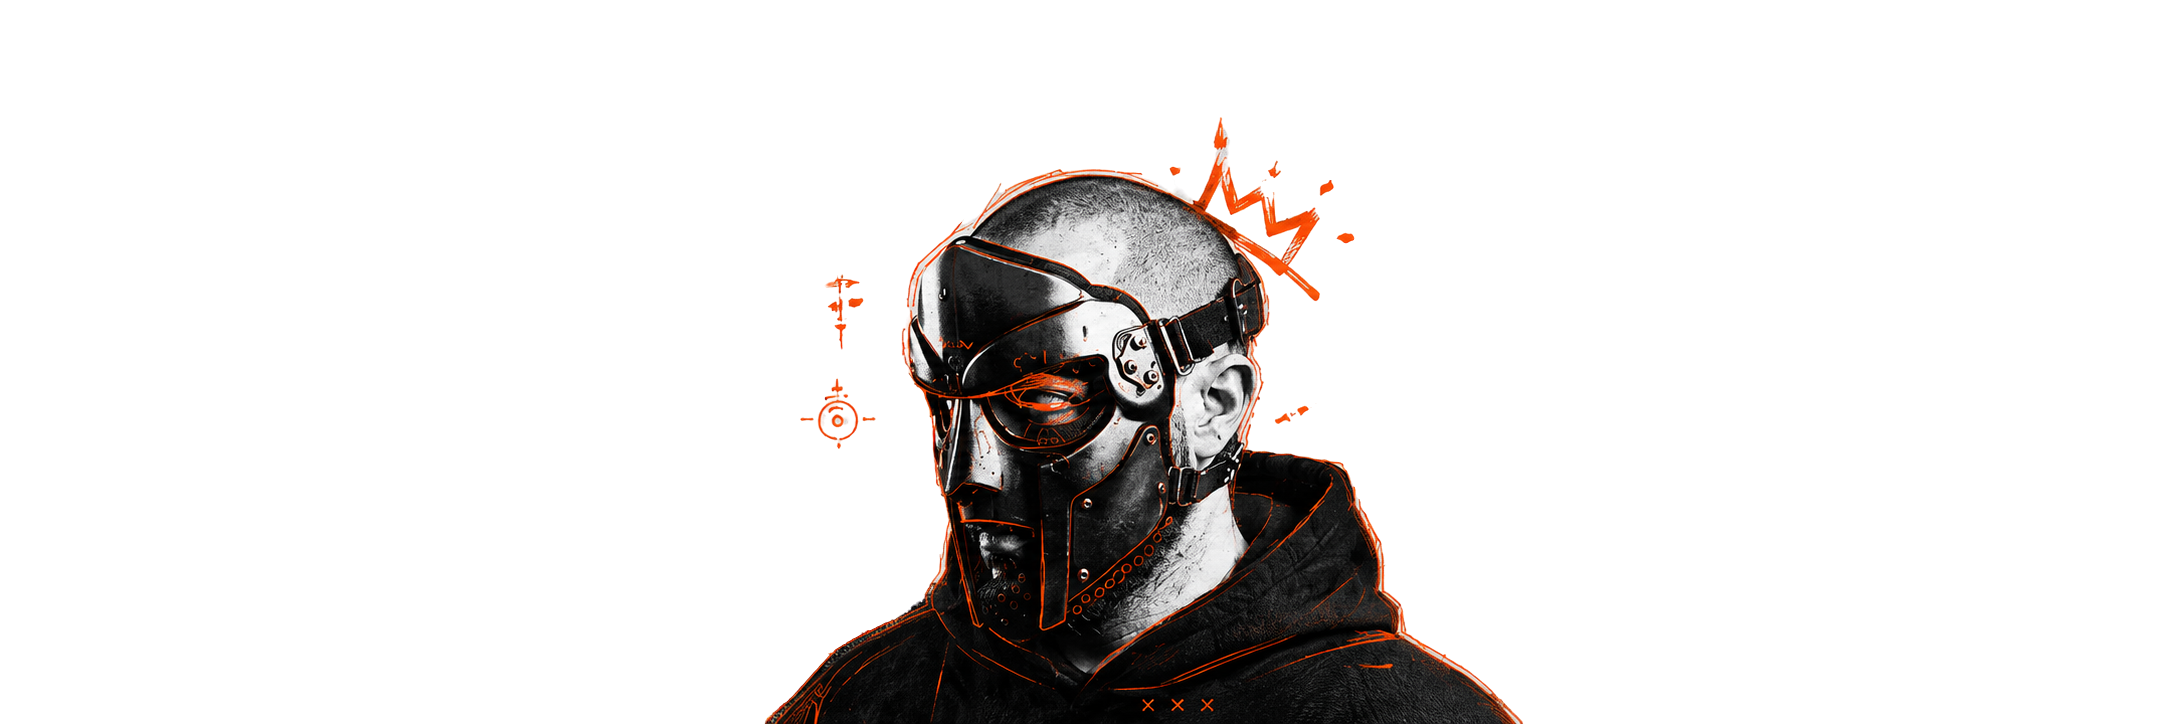
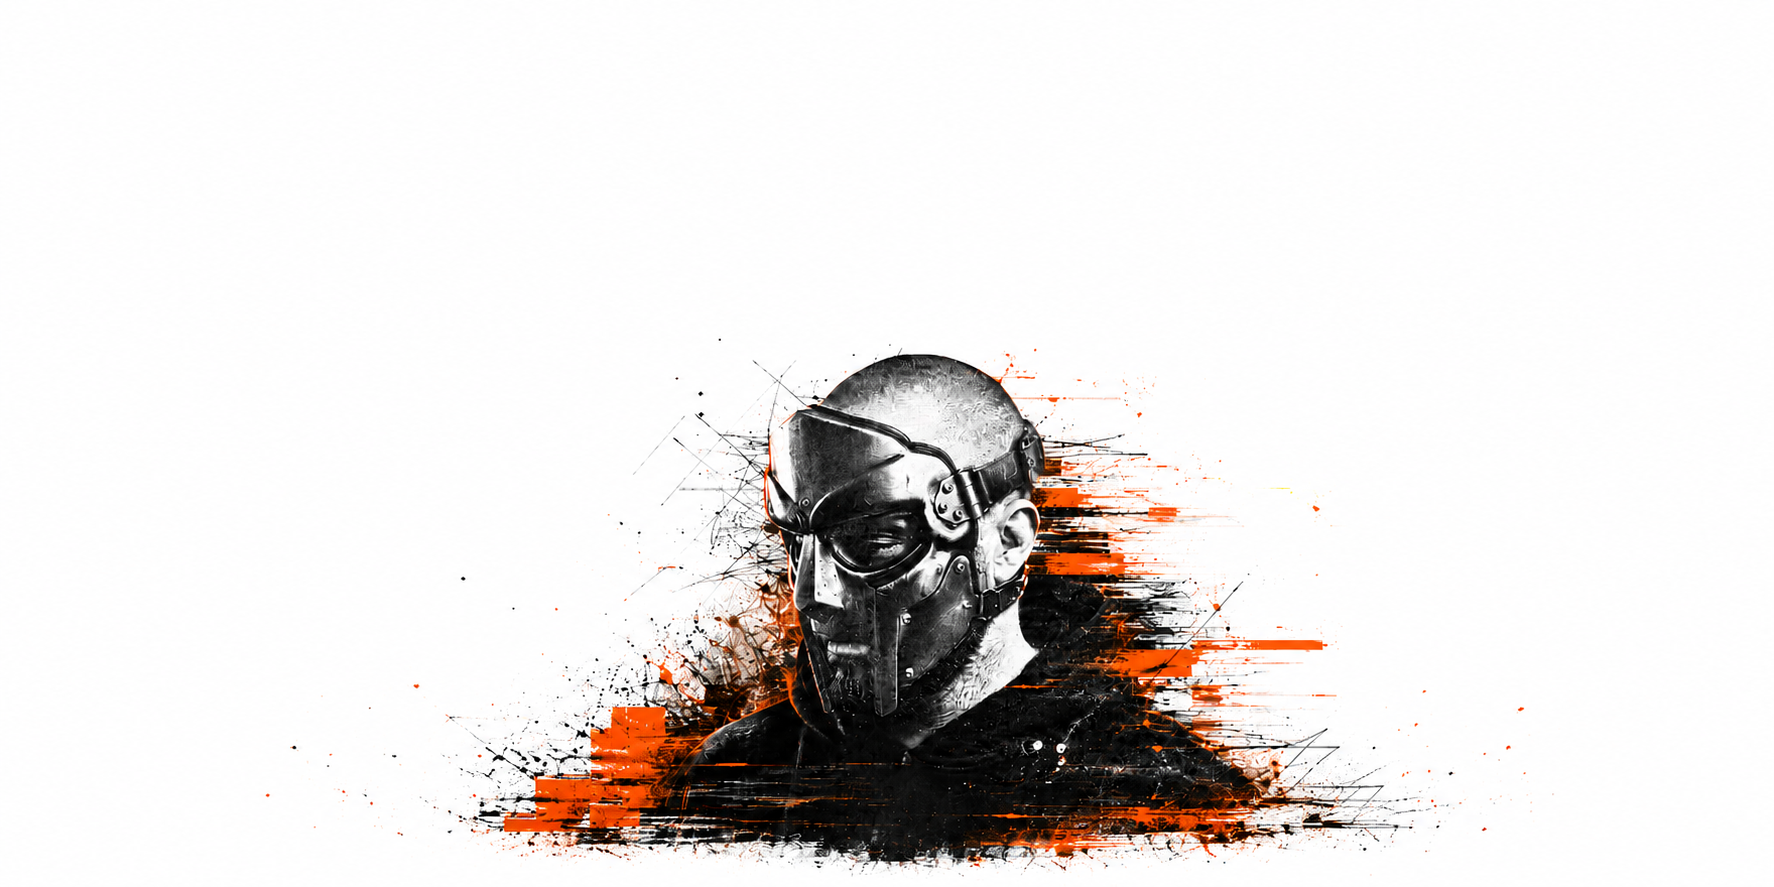
up

Changed region(s): [[0.248, 0.1823, 0.8061, 1.0]]

diff --git a/app/globals.css b/app/globals.css
@@ -1478,14 +1478,26 @@ a:hover .hover-swap > span:nth-child(2),
   isolation: isolate;
 }
 
-.site-footer::before {
-  content: "";
+.site-footer__art {
   position: absolute;
   inset: 0;
   z-index: 0;
-  background: url("/assets/bigfooter.png") center top / cover no-repeat;
-  opacity: 1;
   pointer-events: none;
+  overflow: hidden;
+}
+
+.site-footer__art img,
+.site-footer__art-img {
+  object-fit: contain;
+  object-position: right bottom;
+  image-rendering: -webkit-optimize-contrast;
+}
+
+@media (max-width: 900px) {
+  .site-footer__art img,
+  .site-footer__art-img {
+    object-position: center bottom;
+  }
 }
 
 .footer-opener {
@@ -1501,7 +1513,7 @@ a:hover .hover-swap > span:nth-child(2),
 }
 
 .footer-opener > div {
-  width: min(38vw, 560px);
+  width: min(64vw, 980px);
   transform: translateX(clamp(0px, 2vw, 34px));
 }
 
@@ -1536,8 +1548,9 @@ a:hover .hover-swap > span:nth-child(2),
   background: transparent;
   color: #050607;
   font-family: var(--font-display);
-  font-size: clamp(3rem, 4.25vw, 5.25rem);
-  line-height: 0.88;
+  font-size: clamp(2.25rem, 6.4vw, 6.5rem);
+  line-height: 0.92;
+  letter-spacing: -0.015em;
   text-align: left;
   text-transform: uppercase;
   text-decoration: none;
@@ -1549,6 +1562,7 @@ a:hover .hover-swap > span:nth-child(2),
   max-width: 100%;
   height: 1.04em;
   white-space: nowrap;
+  overflow: hidden;
 }
 
 .footer-talk .hover-swap > span {
@@ -1571,6 +1585,41 @@ a:hover .hover-swap > span:nth-child(2),
   transform: translateY(0);
 }
 
+.footer-socials {
+  position: relative;
+  z-index: 2;
+  display: flex;
+  flex-wrap: wrap;
+  gap: 10px;
+  margin-top: clamp(28px, 3vw, 44px);
+}
+
+.footer-socials a,
+.footer-socials button {
+  padding: 11px 18px;
+  border: 1px solid rgba(5, 6, 7, 0.18);
+  border-radius: 999px;
+  background: rgba(255, 255, 255, 0.86);
+  backdrop-filter: blur(8px);
+  color: #050607;
+  font-family: ui-monospace, SFMono-Regular, Menlo, Consolas, monospace;
+  font-size: 11px;
+  font-weight: 900;
+  letter-spacing: 0.16em;
+  text-transform: uppercase;
+  text-decoration: none;
+  cursor: pointer;
+  transition: background 200ms ease, color 200ms ease, border-color 200ms ease, transform 200ms ease;
+}
+
+.footer-socials a:hover,
+.footer-socials button:hover {
+  background: #050607;
+  border-color: #050607;
+  color: #ffffff;
+  transform: translateY(-2px);
+}
+
 .footer-bottom {
   position: absolute;
   left: 50%;
@@ -1580,11 +1629,11 @@ a:hover .hover-swap > span:nth-child(2),
   width: min(100%, var(--max-w));
   transform: translateX(-50%);
   display: grid;
-  grid-template-columns: 1fr auto 1fr;
+  grid-template-columns: 1fr auto;
   gap: 20px;
   align-items: center;
   padding-block: 24px;
-  border-top: 1px solid rgba(5, 6, 7, 0.16);
+  border-top: 0;
   color: var(--accent);
   font-size: 11px;
   font-weight: 900;
@@ -1601,24 +1650,25 @@ a:hover .hover-swap > span:nth-child(2),
 }
 
 .footer-back-to-top {
-  justify-self: center;
-  color: var(--accent);
+  justify-self: end;
+  color: #ffffff;
   font-size: 11px;
   font-weight: 900;
   letter-spacing: 0.22em;
   text-transform: uppercase;
   text-decoration: none;
-  padding: 9px 14px;
-  border: 1px solid rgba(253, 73, 0, 0.42);
+  padding: 11px 18px;
+  border: 1px solid #050607;
   border-radius: 999px;
-  background: transparent;
-  transition: color 200ms ease, border-color 200ms ease;
+  background: #050607;
+  transition: background 200ms ease, color 200ms ease, border-color 200ms ease, transform 200ms ease;
 }
 
 .footer-back-to-top:hover {
-  color: #050607;
+  color: #ffffff;
   background: var(--accent);
   border-color: var(--accent);
+  transform: translateY(-2px);
 }
 
 .footer-bottom nav {

diff --git a/components/Footer.tsx b/components/Footer.tsx
@@ -1,5 +1,6 @@
 "use client";
 
+import Image from "next/image";
 import { HoverSwapText } from "@/components/HoverSwapText";
 
 const socials = [
@@ -10,6 +11,17 @@ const socials = [
 export function Footer() {
   return (
     <footer id="contact" className="site-footer">
+      <div className="site-footer__art" aria-hidden="true">
+        <Image
+          src="/assets/bigfooter.png"
+          alt=""
+          fill
+          quality={100}
+          sizes="100vw"
+          priority={false}
+          className="site-footer__art-img"
+        />
+      </div>
       <div className="footer-opener page-shell">
         <div>
           <div className="eyebrow footer-rotate" role="text">
@@ -21,22 +33,22 @@ export function Footer() {
           <a className="footer-giant footer-talk" href="#contact" data-contact-trigger data-cursor="CONTACT">
             <HoverSwapText>{"LET'S GET IN TOUCH"}</HoverSwapText>
           </a>
+          <nav className="footer-socials" aria-label="Social links">
+            {socials.map(([label, href]) => (
+              <a href={href} key={label} target="_blank" rel="noreferrer" data-cursor="OPEN">
+                {label}
+              </a>
+            ))}
+            <button type="button" data-contact-trigger data-cursor="CONTACT">
+              MAIL
+            </button>
+          </nav>
         </div>
       </div>
 
       <div className="footer-bottom page-shell">
         <p>&copy;2026 TANEV.DESIGN</p>
         <a className="footer-back-to-top" href="#top" data-cursor="OPEN">BACK TO TOP</a>
-        <nav aria-label="Social links">
-          {socials.map(([label, href]) => (
-            <a href={href} key={label} target="_blank" rel="noreferrer" data-cursor="OPEN">
-              {label}
-            </a>
-          ))}
-          <button type="button" data-contact-trigger data-cursor="CONTACT">
-            MAIL
-          </button>
-        </nav>
       </div>
     </footer>
   );